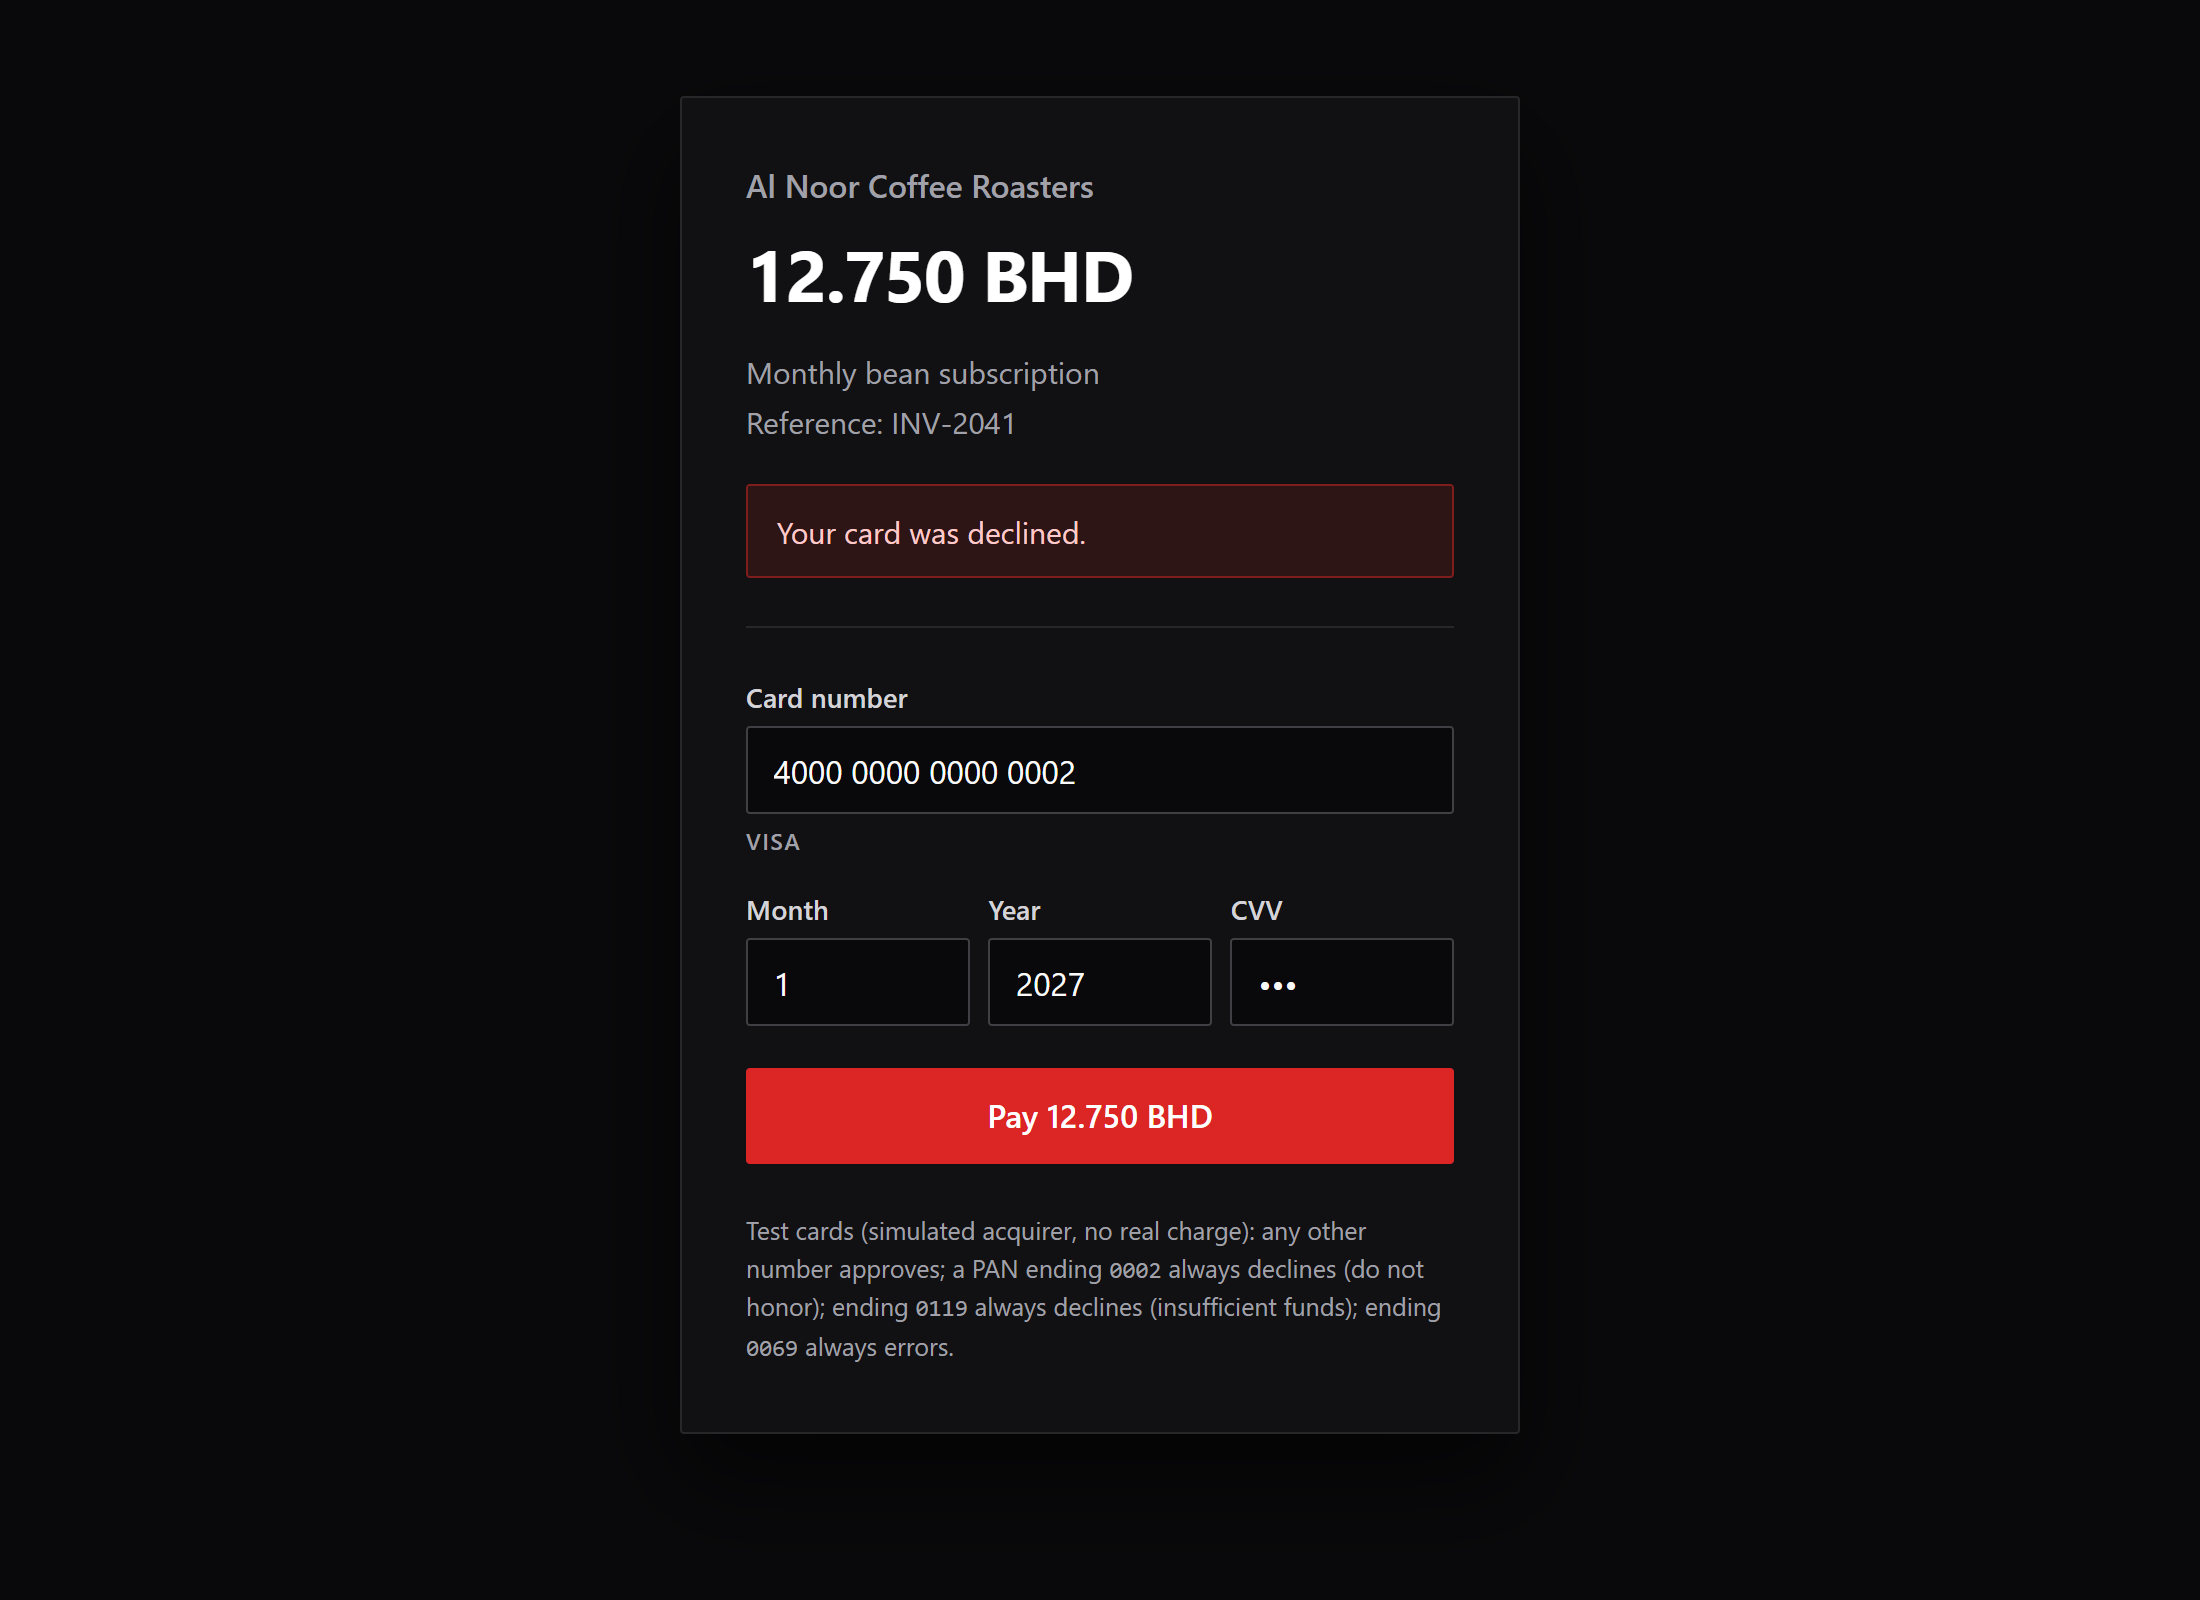
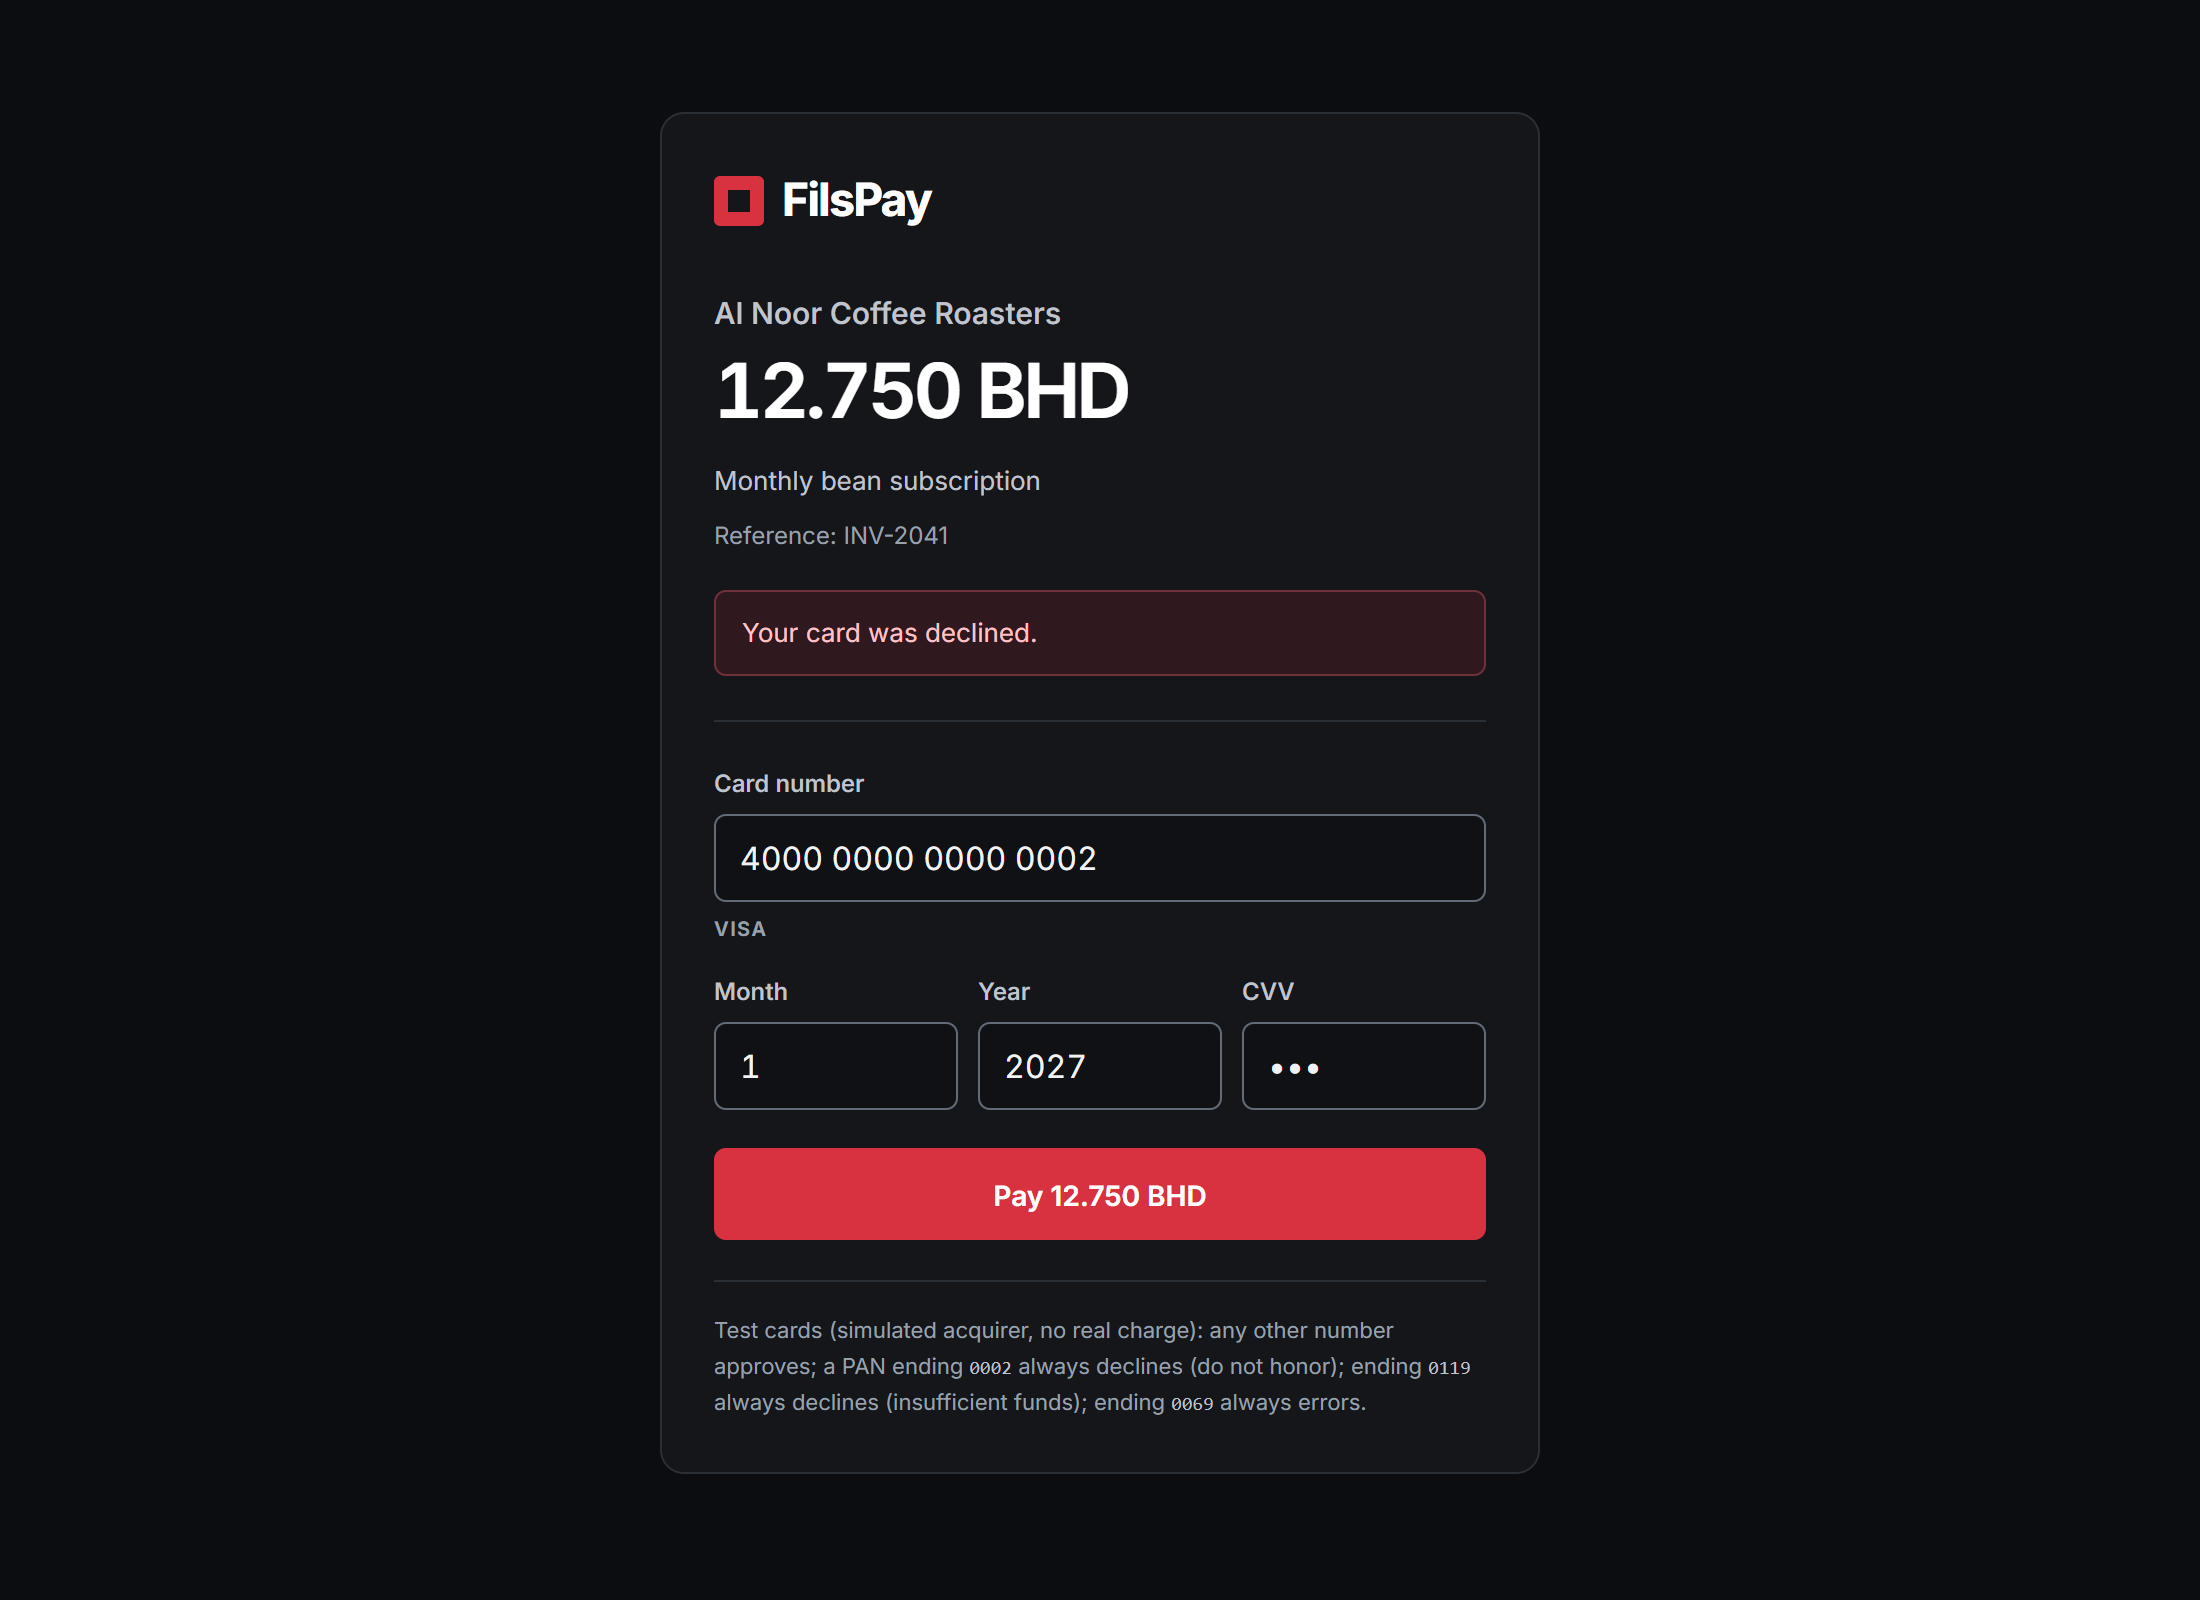
web: polish after the UI merge
Status filters become toggle chips, statuses read as words on the detail
page and filters, the skip link only appears on keyboard focus (it leaked
into phone layouts), phone nav hides its scrollbar. Screenshots updated.

Changed region(s): [[0.3091, 0.0938, 0.68, 0.9062], [0.5564, 0.5625, 0.5873, 0.625]]

diff --git a/apps/shared-ui/theme.css b/apps/shared-ui/theme.css
@@ -23,8 +23,8 @@ html, body { margin: 0; min-width: 320px; }
 *, *::before, *::after { box-sizing: border-box; }
 ::selection { color: #fff; background: #8d2330; }
 :focus-visible { outline: 2px solid var(--fp-focus); outline-offset: 3px; }
-.fp-skip-link { position: fixed; top: -80px; left: 16px; z-index: 100; padding: 10px 16px; border-radius: 6px; background: #fff; color: #15161a; font-weight: 600; }
-.fp-skip-link:focus { top: 12px; }
+.fp-skip-link { position: absolute; top: 12px; left: 16px; z-index: 100; padding: 10px 16px; border-radius: 6px; background: #fff; color: #15161a; font-weight: 600; clip-path: inset(50%); width: 1px; height: 1px; overflow: hidden; white-space: nowrap; }
+.fp-skip-link:focus-visible { clip-path: none; width: auto; height: auto; overflow: visible; }
 input, textarea { caret-color: var(--fp-focus); }
 code, pre { font-family: "SFMono-Regular", Consolas, monospace; font-size: .88em; }
 :is(.dash-shell, .admin-shell, .dash-centered, .admin-centered) {
@@ -158,3 +158,10 @@ code, pre { font-family: "SFMono-Regular", Consolas, monospace; font-size: .88em
 .fp-table-scroll { width: 100%; max-width: 100%; overflow: auto; margin: 14px 0; border: 1px solid var(--fp-line); border-radius: var(--fp-radius); }
 .fp-table-scroll :is(.dash-table, .admin-table) { margin: 0; border: 0; border-radius: 0; min-width: 100%; }
 .fp-table-scroll:focus-visible { outline: 2px solid var(--fp-focus); outline-offset: 3px; }
+
+/* status filter: the whole label toggles, the checked one stands out */
+.dash-filters label:has(> input[type="checkbox"]) { cursor: pointer; padding: 4px 10px; border: 1px solid var(--fp-line); border-radius: 6px; transition: border-color 120ms ease, background-color 120ms ease, color 120ms ease; }
+.dash-filters label:has(> input[type="checkbox"]):hover { border-color: var(--fp-control); color: #fff; }
+.dash-filters label:has(> input[type="checkbox"]:checked) { border-color: var(--fp-red); background: rgba(216, 49, 64, .12); color: #fff; }
+/* phone nav scrolls sideways; keep it tidy */
+@media (max-width: 760px) { :is(.dash-nav, .admin-sidebar .admin-nav) { scrollbar-width: none; } :is(.dash-nav, .admin-sidebar .admin-nav)::-webkit-scrollbar { display: none; } }

diff --git a/apps/web/src/pages/transactions/TransactionDetailPage.tsx b/apps/web/src/pages/transactions/TransactionDetailPage.tsx
@@ -145,7 +145,7 @@ export function TransactionDetailPage() {
       <dl className="dash-dl">
         <dt>Status</dt>
         <dd>
-          <span className={`dash-status dash-status-${txn.status}`}>{txn.status}</span>
+          <span className={`dash-status dash-status-${txn.status}`}>{txn.status.replace(/_/g, " ")}</span>
         </dd>
         <dt>Authorized amount</dt>
         <dd>{bhd(txn.amountFils)}</dd>

diff --git a/apps/web/src/pages/transactions/TransactionListPage.tsx b/apps/web/src/pages/transactions/TransactionListPage.tsx
@@ -96,7 +96,7 @@ export function TransactionListPage() {
               checked={statuses.includes(status)}
               onChange={() => toggleStatus(status)}
             />
-            {status}
+            {status.replace(/_/g, " ")}
           </label>
         ))}
       </fieldset>

diff --git a/docs/UI_CHANGES.md b/docs/UI_CHANGES.md
@@ -1,6 +1,6 @@
 # UI/UX changes
 
-Eight small commits on `apps/web`, each with a reason. Screenshots are taken at
+Nine changes on `apps/web`, each with a reason. Screenshots are taken at
 390 px (phone) and 1100 px (desktop) with a headless Chrome against the Vite
 dev server and a stub of the payment-link API (the stub only answers the two
 checkout calls; the declined card ends in `0002`). "Before" is the code at
@@ -16,6 +16,7 @@ checkout calls; the declined card ends in `0002`). "Before" is the code at
 | 6 | `884415c` dashboard on phones | At 390 px the detail page and event table were wider than the screen and clipped the status; no visible keyboard focus; current page only bold | Detail rows stack, tables scroll inside themselves, focus ring, underline bar on the current nav item, primary submit buttons |
 | 7 | `46ea668` minimal restyle | Pages looked unfinished: browser-default controls, heavy table grid, mixed button styles | CSS only, no new elements: one neutral palette, white cards, soft status pills, quiet table headers, dark primary buttons, focus halo, short transitions; checkout as a centred card |
 | 8 | black + red theme | Team wanted a stronger identity than neutral grey | CSS only, no new elements, dashboard + checkout + admin: black (#09090b) surfaces, white text, red (#dc2626) for primary buttons, focus and the active nav item; sharp 2px corners; statuses are outlined tags (white = money moved, dashed = waiting, red = stopped). shadcn/Tailwind was considered and rejected for tonight: it means rewriting every component; the same look is achieved with plain CSS on the existing React markup |
+| 9 | `855a065` + polish (Abdu, merged `25cc0c8`) | Top-bar navigation did not scale to 6 sections on a phone; native date fields varied by browser; pages had inconsistent spacing and controls | Shared theme (`apps/shared-ui/theme.css`, Inter font): left sidebar navigation with the current section marked, phone tab bar, one `DateInput` with a calendar button and DD/MM/YYYY entry, row links with arrows, consistent cards and status pills across merchant, admin and checkout. Polish on merge: status filters as toggle chips, statuses shown as words, skip-to-content link only on keyboard focus |
 
 ## Before / after
 
